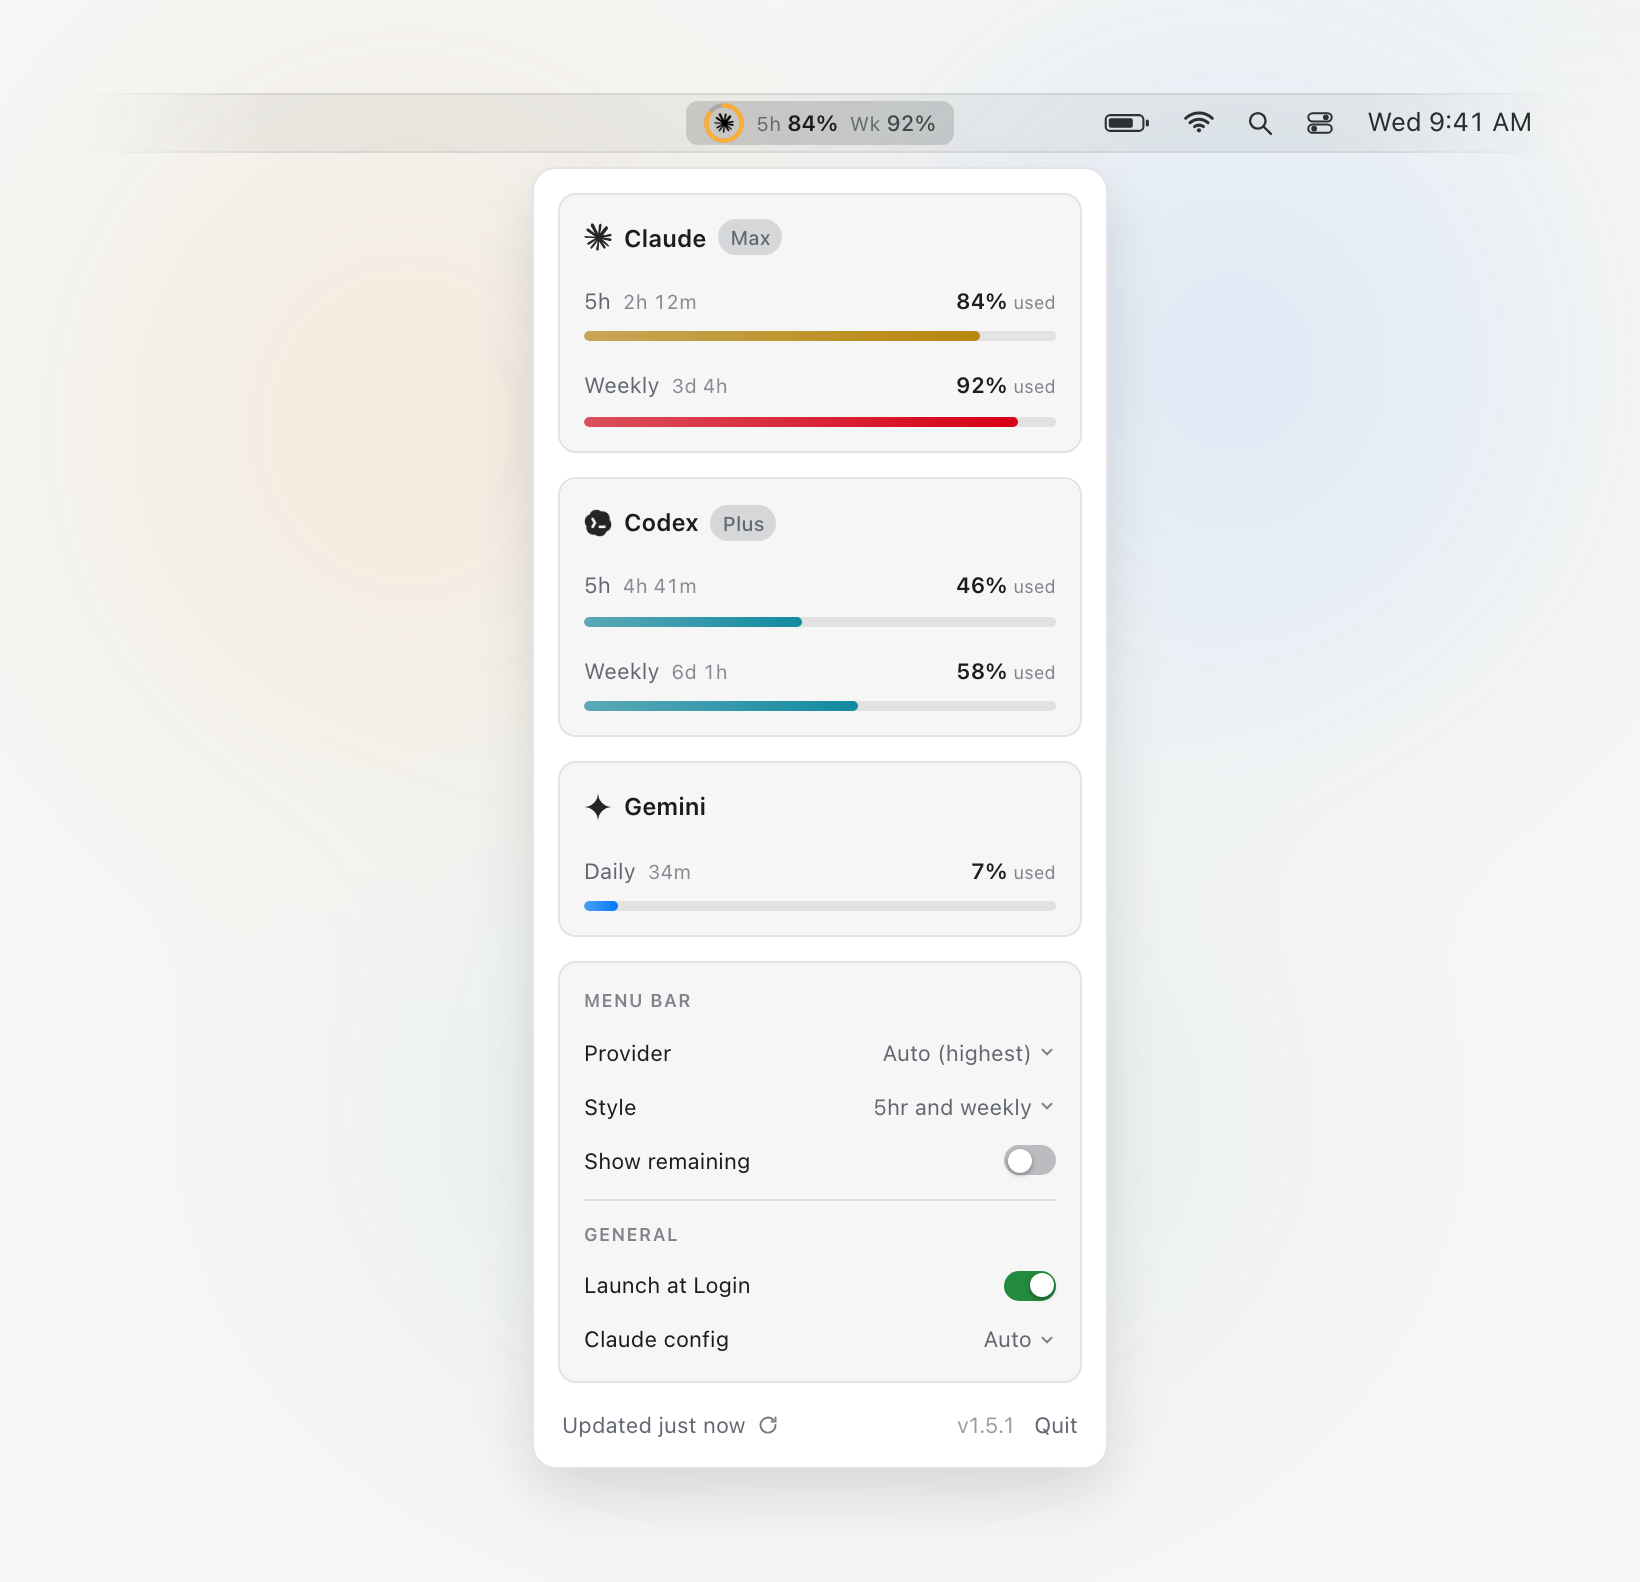
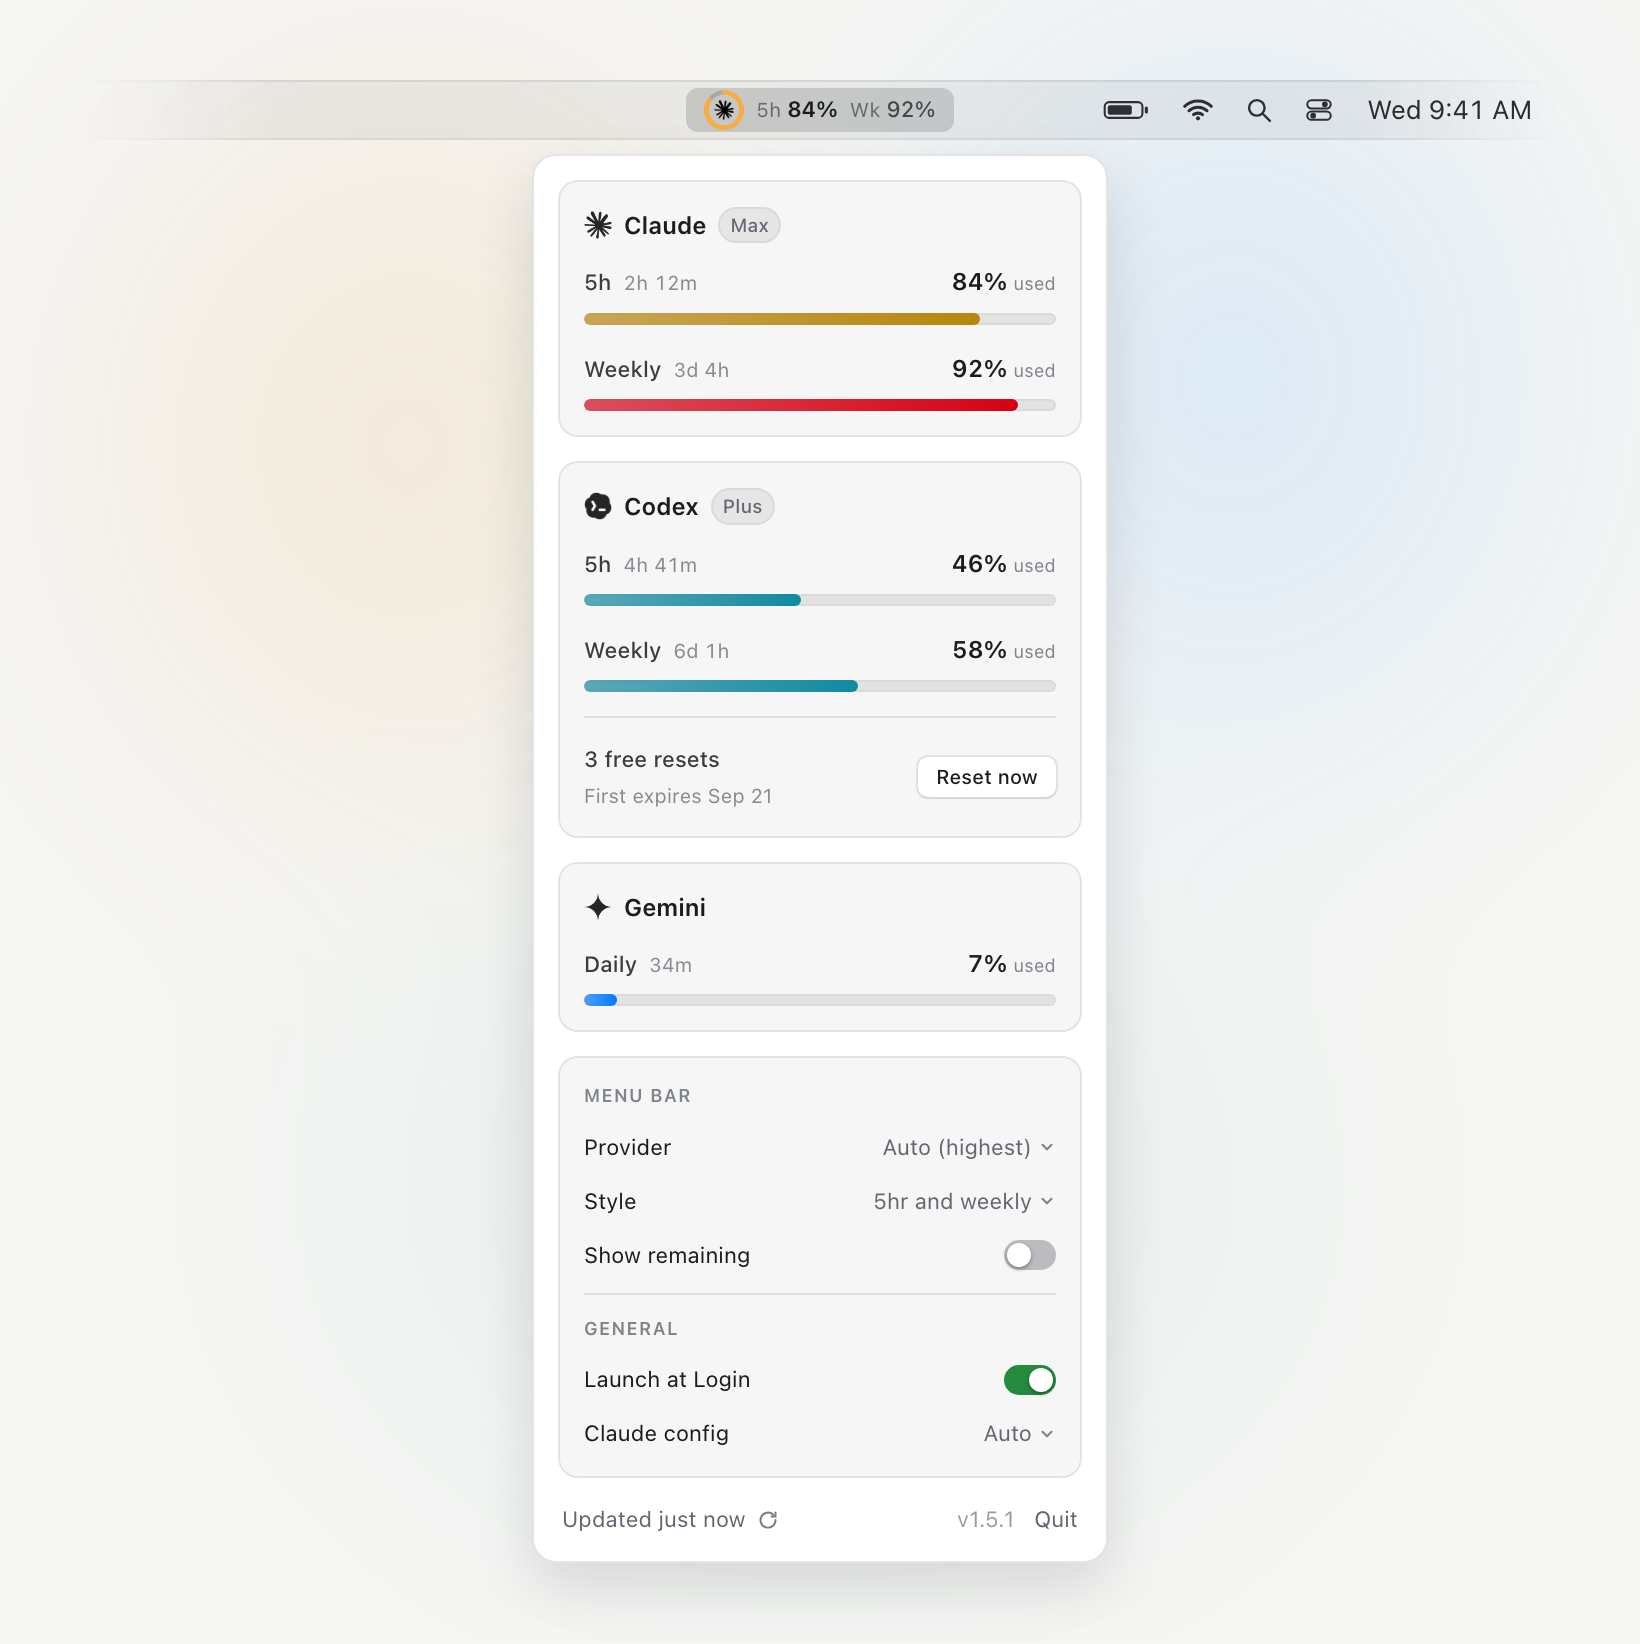
Update the site mockup and demo images, rendered by script

diff --git a/site/style.css b/site/style.css
@@ -529,12 +529,14 @@ h1 { animation-delay: 0.06s; }
 .card {
   background: var(--panel-card);
   border: 1px solid var(--panel-stroke);
-  border-radius: 9px;
+  border-radius: 10px;
   padding: 12px;
   display: flex;
   flex-direction: column;
-  gap: 13px;
+  gap: 12px;
 }
+/* The header sits a touch closer to its first row than rows do to each other. */
+.card .p-head { margin-bottom: -3px; }
 
 .p-head {
   display: flex;
@@ -561,22 +563,25 @@ h1 { animation-delay: 0.06s; }
   font-weight: 600;
 }
 .p-badge {
-  font-size: 10px;
+  font-size: 9.5px;
   font-weight: 500;
   color: var(--text-2);
-  padding: 1px 6px;
+  padding: 1.5px 6px;
   border-radius: 999px;
-  background: color-mix(in srgb, var(--text-2) 22%, transparent);
+  background: color-mix(in srgb, var(--text) 7%, transparent);
+  box-shadow: inset 0 0 0 1px color-mix(in srgb, var(--text) 6%, transparent);
 }
 
-.win { display: flex; flex-direction: column; gap: 7px; }
+.win { display: flex; flex-direction: column; gap: 6px; }
 .win-top {
   display: flex;
   align-items: baseline;
   gap: 6px;
   font-family: var(--sans);
 }
-.win-label { font-size: 11px; color: var(--text-2); }
+/* The label carries the row's identity, so it sits in primary ink; the
+   countdown is the supporting fact and steps back a shade and a size. */
+.win-label { font-size: 11px; font-weight: 500; color: var(--text); opacity: 0.85; }
 .win-reset {
   font-size: 10px;
   color: var(--text-2);
@@ -585,7 +590,7 @@ h1 { animation-delay: 0.06s; }
 }
 .win-pct {
   margin-left: auto;
-  font-size: 11px;
+  font-size: 12px;
   font-weight: 600;
   font-variant-numeric: tabular-nums;
 }
@@ -597,11 +602,13 @@ h1 { animation-delay: 0.06s; }
   margin-left: 3px;
 }
 
-/* The bar sits on its own line below the label row, full card width, thin. */
+/* The bar sits on its own line below the label row, full card width, thin. A
+   hairline inside the track keeps the empty part from dissolving into the card. */
 .track {
-  height: 5px;
+  height: 6px;
   border-radius: 999px;
   background: var(--panel-track);
+  box-shadow: inset 0 0 0 1px color-mix(in srgb, var(--text) 4%, transparent);
   overflow: hidden;
 }
 .fill {
@@ -622,6 +629,41 @@ h1 { animation-delay: 0.06s; }
 }
 @media (prefers-reduced-motion: reduce) {
   .fill { animation: none; }
+}
+
+/* Free reset credits under Codex's bars: a hairline off the meters, then the
+   count over its expiry, and the redeem as a real bordered button. */
+.c-div {
+  height: 1px;
+  background: color-mix(in srgb, var(--text-2) 40%, transparent);
+  opacity: 0.4;
+}
+.reset {
+  display: flex;
+  align-items: center;
+  justify-content: space-between;
+  gap: 8px;
+}
+.reset-text { display: flex; flex-direction: column; gap: 1px; }
+.reset-count { font-size: 11px; font-weight: 500; color: var(--text); opacity: 0.85; }
+.reset-expiry { font-size: 10px; color: var(--text-2); opacity: 0.75; }
+/* A small macOS bordered push button: a raised pill with a hairline edge. */
+.btn-mini {
+  flex: none;
+  font-size: 10px;
+  font-weight: 500;
+  line-height: 1;
+  padding: 5px 9px;
+  border-radius: 5px;
+  color: var(--text);
+  background: color-mix(in srgb, var(--text) 12%, transparent);
+  box-shadow: inset 0 0 0 1px color-mix(in srgb, var(--text) 8%, transparent);
+}
+@media (prefers-color-scheme: light) {
+  .btn-mini {
+    background: #fff;
+    box-shadow: 0 0 0 1px rgba(0, 0, 0, 0.08), 0 1px 1px rgba(0, 0, 0, 0.06);
+  }
 }
 
 /* Settings card — label left, control right, System Settings-style, split into

diff --git a/site/index.html b/site/index.html
@@ -98,7 +98,7 @@
           </span>
         </div>
 
-        <div class="panel" role="img" aria-label="Usage Meter dropdown panel. Claude, Max plan: 5-hour window 84 percent used, resets in 2 hours 12 minutes; weekly window 92 percent used, resets in 3 days 4 hours. Codex, Plus plan: 5-hour window 46 percent used, resets in 4 hours 41 minutes; weekly window 58 percent used, resets in 6 days 1 hour. Gemini: daily window 7 percent used, resets in 34 minutes. Settings and controls below.">
+        <div class="panel" role="img" aria-label="Usage Meter dropdown panel. Claude, Max plan: 5-hour window 84 percent used, resets in 2 hours 12 minutes; weekly window 92 percent used, resets in 3 days 4 hours. Codex, Plus plan: 5-hour window 46 percent used, resets in 4 hours 41 minutes; weekly window 58 percent used, resets in 6 days 1 hour; 3 free resets available, first expires September 21, with a Reset now button. Gemini: daily window 7 percent used, resets in 34 minutes. Settings and controls below.">
           <div class="card" style="--accent: var(--claude)">
             <div class="p-head">
               <img class="p-logo" src="claude-logo.png" alt="" width="14" height="14">
@@ -144,6 +144,16 @@
                 <span class="win-pct">58%<span class="win-mode">used</span></span>
               </div>
               <span class="track"><span class="fill accent" style="--pct:58%"></span></span>
+            </div>
+            <!-- Codex hands out free rate-limit resets; they sit under the bars
+                 they can clear, behind a divider, with the redeem beside them. -->
+            <div class="c-div"></div>
+            <div class="reset">
+              <span class="reset-text">
+                <span class="reset-count">3 free resets</span>
+                <span class="reset-expiry">First expires Sep 21</span>
+              </span>
+              <span class="btn-mini">Reset now</span>
             </div>
           </div>
 
@@ -224,7 +234,7 @@
         <details class="faq-item">
           <summary>Which tools does it track?<span class="faq-mark" aria-hidden="true"></span></summary>
           <div class="faq-a">
-            <p>Claude Code, Codex, and Gemini (via Antigravity or the Gemini CLI). For each one it shows the rate-limit windows, 5-hour and weekly, as percent used with the time until they reset.</p>
+            <p>Claude Code, Codex, and Gemini (via Antigravity or the Gemini CLI). For each one it shows the rate-limit windows, 5-hour and weekly, as percent used with the time until they reset. When Codex grants you free rate-limit resets, it shows how many you have and lets you redeem one right from the dropdown.</p>
           </div>
         </details>
         <details class="faq-item">
